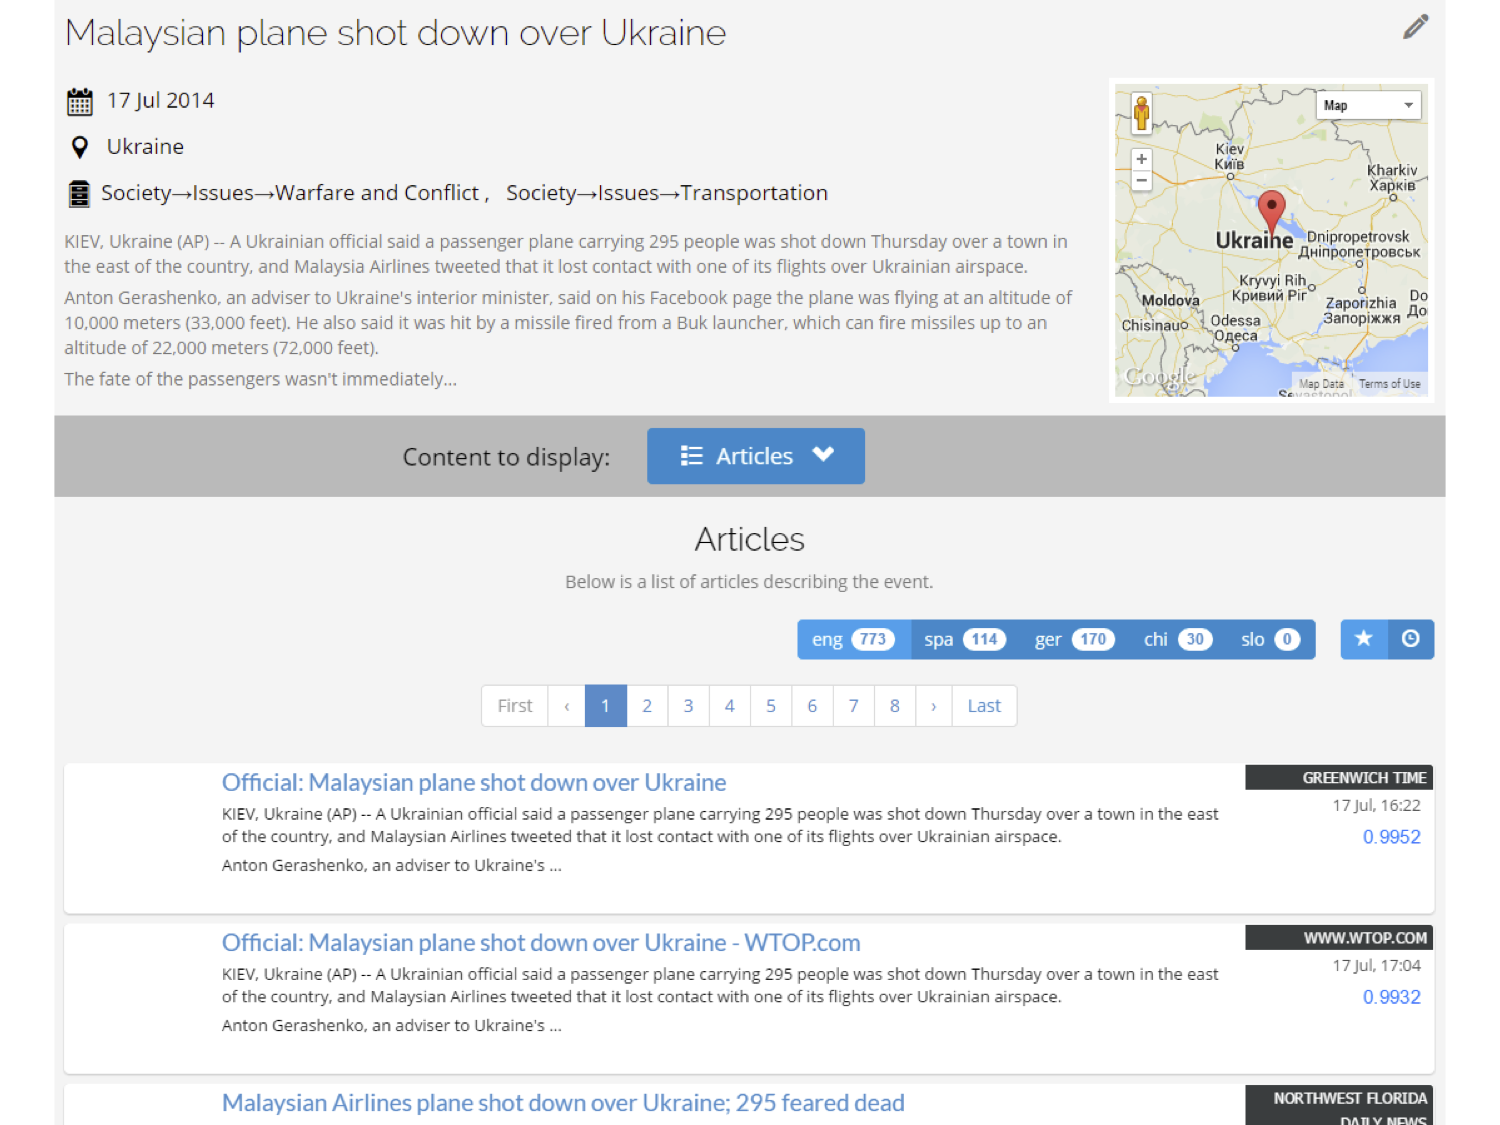
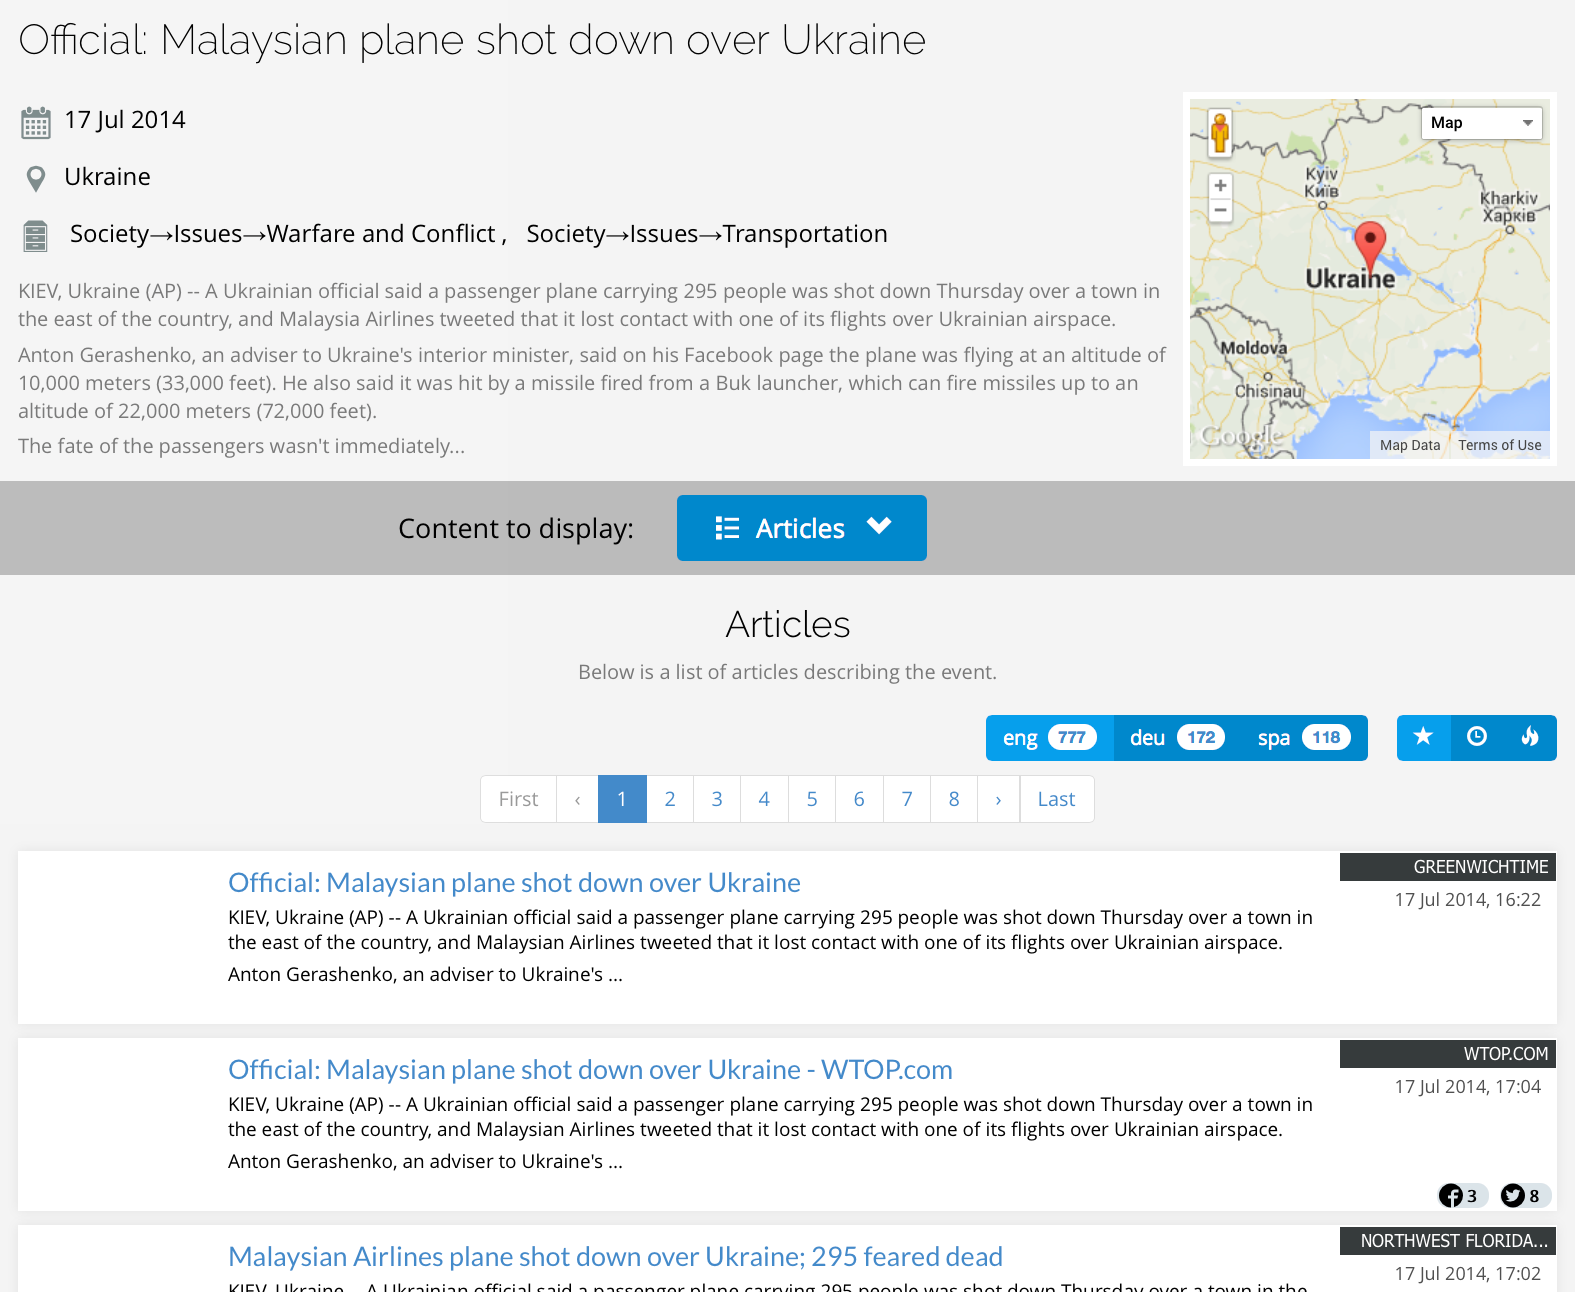
updates

diff --git a/rupnik2015.tex b/rupnik2015.tex
@@ -107,8 +107,8 @@ The term event is vague and ambiguous, but for the practical purposes, we define
 
 \begin{figure}
 \centering
-\includegraphics[width=0.75\textwidth]{events2.png}
-\caption{\label{fig:event2} Events are represented by collections of articles about an event, in this case the Malaysian airliner which was shot down over the Ukraine.}
+\includegraphics[width=1\textwidth]{events2.png}
+\caption{\label{fig:event2} Events are represented by collections of articles about an event, in this case the Malaysian airliner which was shot down over the Ukraine. The results shown in the figure can be obtained using the query \url{http://eventregistry.org/event/997350\#?lang=eng\&tab=articles}.}
 \end{figure}
 
 As input, we consider a stream of articles in different languages and a list of events. Our goal is to assign articles to their corresponding events. A priori, we do not know the coverage of the articles, that is not all the events may be covered and we do not know that all the articles necessarily fit into one of the events. The task is divided into two parts: detecting events within each language and then linking events across languages. In this paper we address the second step.
@@ -153,7 +153,7 @@ The collection of the news articles is performed using the Newsfeed service~\cit
 Collected articles are first semantically annotated by identifying in them mentions of relevant concepts -- either entities or important keywords. The disambiguation and entity linking of the concepts is done using Wikipedia as the main knowledge base. The algorithm for semantic annotation is based on~\cite{zhang2014saaacamactat}. As a part of the semantic annotation we also analyze the dateline of the article to identify the location of the described event as well as extract dates mentioned in the article using a set of regular expressions. Since articles are frequently revised we also detect if the collected article is just a revision of a previous one so that we can use this information in next phases of the pipeline. The last important processing step on the document level is to efficiently identify which articles in other available languages are most similar to this article. The methodology for this task is one of the main contributions of this paper and is described in details in Section~\ref{sec:crosslingual}).
 
 As a next step, an online clustering algorithm is applied to the articles in order to identify groups of articles that are discussing the same event. For each new article, the clustering algorithm determines if the article should be assigned to some existing cluster or into a new cluster. The underlying assumption is that articles that are describing the same event are similar enough and will therefore be put into the same cluster. For clustering, each new article is first tokenized, stop words removed and the remaining words are stemmed.
-The remaining tokens are represented in a vector-space model and normalized using TF-IDF (see Section~\ref{sec:tfidf} for the definition). Cosine similarity is used to find the most similar existing cluster, by comparing the document's vector to the centroid vector of each cluster. A user-defined threshold is used to determine if the article is not similar enough to any existing clusters (0.4 was used in our experiments).  If the highest similarity is above the threshold, the article is assigned to the corresponding cluster, otherwise a new cluster is created, initially containing only the single article. Whenever an article is assigned to a cluster, the cluster's centroid vector is also updated. Since articles about an event are commonly written only for a short period of time, we remove clusters once the oldest article in the cluster becomes more than 4 days old. This housekeeping mechanism prevents the clustering from becoming slow and also ensures that articles are not assigned to obsolete clusters. Details of the clustering approach are described in~\cite{brank2014}.
+The remaining tokens are represented in a vector-space model and normalized using TF-IDF\footnote{The IDF weights are dynamically computed for each new article over all news articles within a 10 day window.} (see Section~\ref{sec:tfidf} for the definition). Cosine similarity is used to find the most similar existing cluster, by comparing the document's vector to the centroid vector of each cluster. A user-defined threshold is used to determine if the article is not similar enough to any existing clusters (0.4 was used in our experiments).  If the highest similarity is above the threshold, the article is assigned to the corresponding cluster, otherwise a new cluster is created, initially containing only the single article. Whenever an article is assigned to a cluster, the cluster's centroid vector is also updated. Since articles about an event are commonly written only for a short period of time, we remove clusters once the oldest article in the cluster becomes more than 4 days old. This housekeeping mechanism prevents the clustering from becoming slow and also ensures that articles are not assigned to obsolete clusters. Details of the clustering approach are described in~\cite{brank2014}.
 
 Once the number of articles in a cluster reaches a threshold (which is a language dependent parameter), we assume that the articles in the cluster are describing an event. At that point, a new event with a unique ID is created in Event Registry, and the cluster with the articles is assigned to it. By analyzing the articles, we extract the main information about the event, such as the event location, date, most relevant entities and keywords, etc.
 
@@ -188,13 +188,14 @@ In this section we will relate the methods we use to other alternatives in the l
 
 There are four main families of approaches to cross-lingual similarity.
 
-\textbf{Translation}. The most obvious way to compare documents written in different languages is to use machine translation and perform monolingual similarity. One can use free tools such as Moses \shortcite{moses} or translation services, such as Google Translate\footnote{https://translate.google.com/}. There are two issues with such approaches: they solve a harder problem than needs to be solved and they are less robust to training resource quality - large sets of translated sentences are typically needed. Training Moses for languages with scarce linguistic resources is thus problematic. The issue with using online services such as Google Translate is that the APIs are limited and not free. The operation efficiency and cost requirements make translation based approaches less suited for our system.
+\textbf{Translation}. The most obvious way to compare documents written in different languages is to use machine translation and perform monolingual similarity. One can use free tools such as Moses \shortcite{moses} or translation services, such as Google Translate\footnote{https://translate.google.com/}. There are two issues with such approaches: they solve a harder problem than needs to be solved and they are less robust to training resource quality - large sets of translated sentences are typically needed. Training Moses for languages with scarce linguistic resources is thus problematic. The issue with using online services such as Google Translate is that the APIs are limited and not free. The operation efficiency and cost requirements make translation based approaches less suited for our system. 
 
 \textbf{Probabilistic topic models}. There exist many variants to modelling documents in a language independent way by using probabilistic graphical models. The models include:  Joint Probabilistic Latent Semantic Analysis (JPLSA) \shortcite{platt2010translingual}, Coupled Probabilistic LSA (CPLSA) \cite{platt2010translingual}, Probabilistic Cross-Lingual LSA (PCLLSA)\cite{PCL_LSA} and Polylingual Topic Models (PLTM) \shortcite{polyLDA} which is a Bayesian version of PCLLSA. The methods (except for CPLSA) describe the multilingual document collections as samples from generative probabilistic models, with variations on the assumptions on the model structure. The topics represent latent variables that are used to generate observed variables (words), a process specific to each language. The parameter estimation is posed as an inference problem which is typically intractable and one usually solves it using approximate techniques. Most variants of solutions are based on Gibbs sampling or Variational Inference, which are nontrivial to implement and may require an experienced practitioner to apply. Furthermore, representing a new document as a mixture of topics is another potentially hard inference problem which must be solved.
 
 \textbf{Classification problem related}. In approaches such as \cite{cotrain} and \shortcite{svm2k} the authors find linear embeddings of the data that support good classification results, based on a given classification problem training data. We do not consider this family of approaches, since for general language pairs classifier training sets may not be available.\todo{add more here}
 
-\textbf{Matrix factorization}. Non-negative matrix factorization based \cite{nonnegfactor_lsi}, Cross-Lingual Latent Semantic Indexing CLLSI\shortcite{cl_lsi}, Canonical Correlation Analysis (CCA) \cite{Hotelling}, Oriented Principal Component Analysis \cite{platt2010translingual}. The quadratic time and space dependency of the OPCA method makes it impractical for large scale purposes. In addition, OPCA forces the vocabulary sizes for all languages to be the same, which is less intuitive. For our setting, the method in \cite{nonnegfactor_lsi} has a prohibitively high computational cost when building models (it uses dense matrices of dimensions that is the product of training set size and vocabulary size). Our proposed approach combines CCA and CLLSI.
+\textbf{Matrix factorization}. Non-negative matrix factorization based \cite{nonnegfactor_lsi}, Cross-Lingual Latent Semantic Indexing CL-LSI\shortcite{cl_lsi}\cite{multilingualBook}, Canonical Correlation Analysis (CCA) \cite{Hotelling}, Oriented Principal Component Analysis \cite{platt2010translingual}. The quadratic time and space dependency of the OPCA method makes it impractical for large scale purposes. In addition, OPCA forces the vocabulary sizes for all languages to be the same, which is less intuitive. For our setting, the method in \cite{nonnegfactor_lsi} has a prohibitively high computational cost when building models (it uses dense matrices of dimensions that is the product of training set size and vocabulary size). Our proposed approach combines CCA and CL-LSI. Another closely related method is Explicit Semantic Analysis (ESA) \cite{ESA}, which uses Wikipedia (as do we in the current work) to compare documents. The authors of ESA compare it to CL-LSI and find that CL-LSI can outperform ESA in an information retrieval, but is costlier to optimize over a large corpus (ESA requires no training). We find that the scalability argument does not apply in our case: based on advances in numerical linear algebra we can solve large CL-LSI problems (millions of documents as oposed to 10,000 document limit reported in \cite{ESA}).
+
 
 \todo{add the related work which was missing}
 
@@ -799,10 +800,14 @@ In our current implementation, we use the variation of hub approach. Our project
 Our system is also easily extendable. Adding a new language requires the  computation of  a projector matrix and proxy matrices with all other already available languages.
 
 \subsection{Repeatability of Experiments}
-\todo{Dataset of clusters, code, github}
+We have made publicly available at \url{https://github.com/rupnikj/jair_paper.git} both the code and data that were used in the experiments.
+The manually labelled dataset used in the evaluation of event linking is available at in the ``dataset`` subfolder of the github repository. The included archive contains two folders: ``positive'' and ``negative'', where the first folder includes examples of cluster pairs in two languages that represent the same event and the second folder contains pairs of clusters in two languages that do not represent different events. Each example is a JSON file that contains at the top level information about a pair of clusters (including text of the articles) as well as a set of ``meta'' attributes, that correspond to features described in \ref{trainClassifier}.
+
+The ``code'' folder includes MATLAB scripts for building cross-lingual similarity models introduced in \ref{sec:models}, which can be used with publicly available Wikipedia corpus to reproduce the cross-lingual similarity evaluation. We have also made available the similarity computation over 100 languages as a service at \url{xling.ijs.si}.
+
+In addition, the Event Registry system (\url{http://eventregistry.org/}) comes with an API, documented at \url{https://github.com/gregorleban/event-registry-python}, that can be used to download events and articles.
 
 \section{Discussion and Future Work}
-\todo{We should mention the api, datasetswhatever here - for reprodicability}
 
 In this paper we have presented a cross-lingual system for linking events in different languages. Building on an existing system, Event Registry, we present and evaluate several approaches to computing a  cross-lingual similarity function. We also present an approach to linking events and evaluate effectiveness of various features.  The  final pipeline is scalable both in terms of number of articles and number of languages, while accurately linking events.
 
